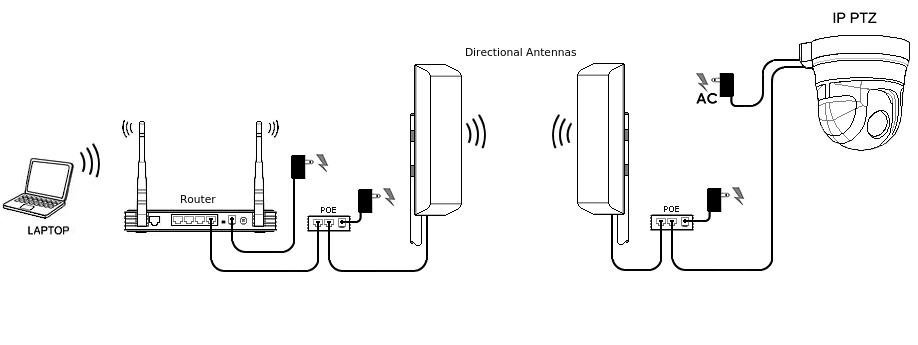
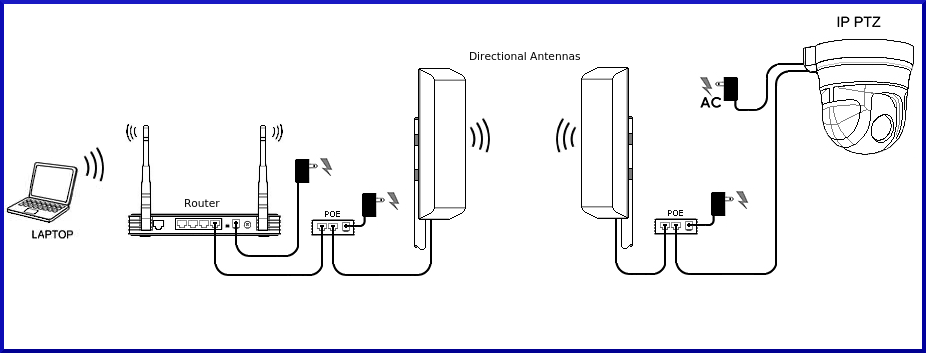
updated some of the slider images

diff --git a/index.html b/index.html
@@ -8,8 +8,8 @@ slides:
    - title: Calving Camera Systems
      heading:
      text: 
-     image: /img/major/ip-calving-camera-system.png
-     thumb: /img/major/ip-calving-camera-system.png
+     image: /img/major/ip-calving-camera-system-white.png
+     thumb: /img/major/ip-calving-camera-system-blue.png
      link: /products/index.html
    - title: Calving Cameras
      heading: Monitor your cows during calving season.
@@ -26,8 +26,8 @@ slides:
    - title: Connection Diagrams
      heading: Find out how to connect up a Calving Camera System.
      text: 
-     image: /img/major/ip-camera-antenna-connection-diagram.png
-     thumb: /img/major/ip-camera-antenna-connection-diagram.png
+     image: /img/major/connection-diagram.png
+     thumb: /img/major/connection-diagram.png
      link: /wireless/2015/05/26/ip-wireless-directional-antenns.html
    - title: Mobile Devices
      heading: View video from the camera on many different mobile devices.
